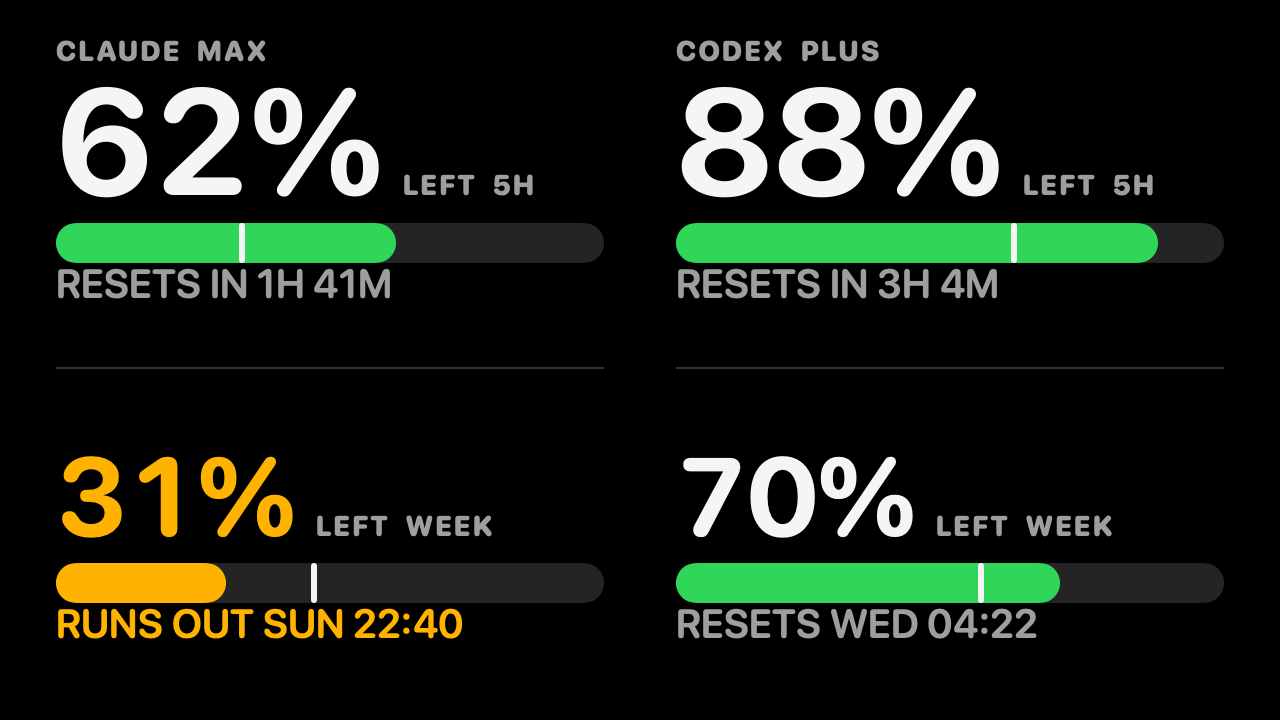
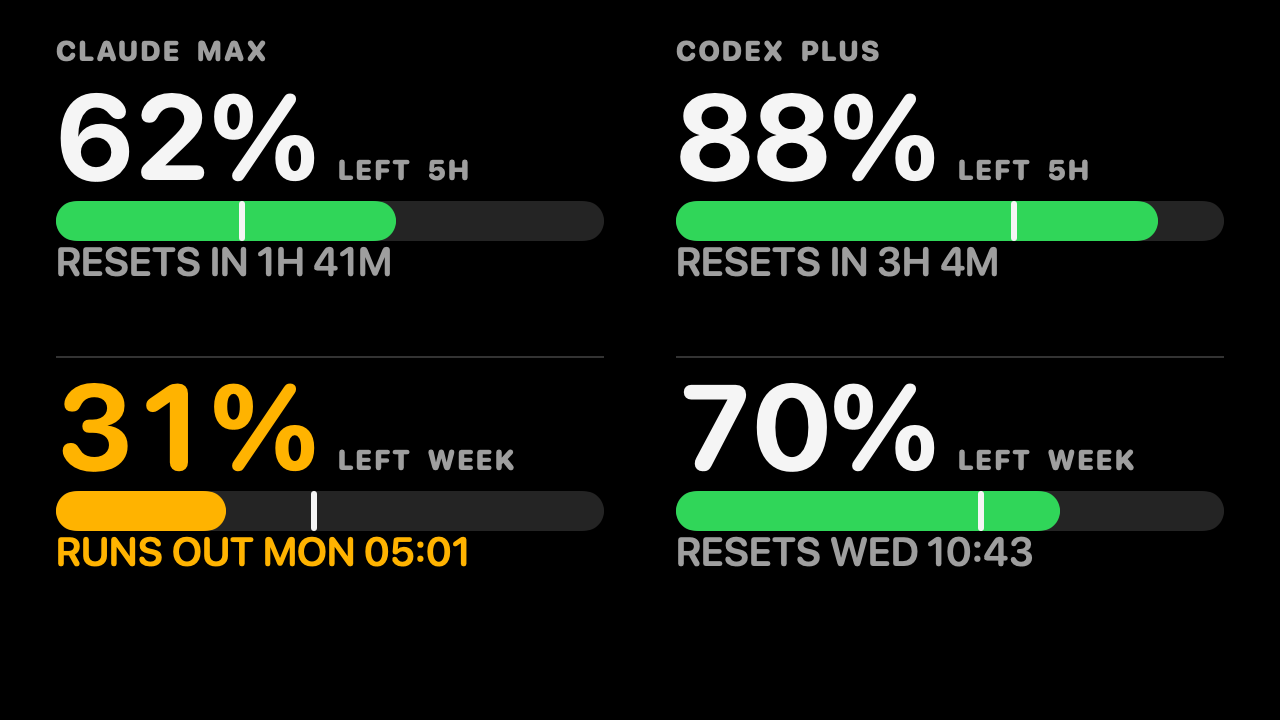
Limits page: the same rows, at the same size, for every agent
The 5-hour window and the week each get a row at one size, lined up across the
columns, instead of each column showing its first window large and its second
small, which put Claude's week and Codex's week at different sizes side by
side. A window a plan lacks keeps its place, marked; a row no agent has is left out.

diff --git a/Sources/deskdash/Views.swift b/Sources/deskdash/Views.swift
@@ -1037,14 +1037,21 @@ struct AlertBanner: View {
 /// Each agent's plan limits side by side: what is left of the 5-hour window large, the week under it. Each bar has a
 /// white tick where an even pace would leave it, so a bar reaching past its tick has room to spare. Amber means it
 /// runs out before it resets at the pace so far, or is nearly gone; red, almost nothing is left.
+/// Each agent's plan limits in a column, in the same rows for every agent: the 5-hour window, then the week, all at one
+/// size, so the same window sits side by side. A window an agent's plan does not have (Codex Pro has only the week)
+/// leaves its place, marked; a row no agent has is left out. Each bar has a white tick where an even pace would leave
+/// it, so a bar reaching past its tick has room to spare. Amber means it runs out before it resets at the pace so far,
+/// or is nearly gone; red, almost nothing is left.
 struct LimitsPage: View {
     let dash: Dashboard
 
     var body: some View {
+        let shown = Array(dash.visibleLimits.prefix(2))
+        let rows = LimitRow.allCases.filter { row in shown.contains { row.window(of: $0) != nil } }
         HStack(alignment: .top, spacing: 72) {
-            let shown = dash.visibleLimits.prefix(2)
             ForEach(shown) {
-                LimitsColumn(limits: $0, now: dash.now, use24h: dash.config.clock.use24h, solo: shown.count == 1)
+                LimitsColumn(limits: $0, rows: rows, now: dash.now, use24h: dash.config.clock.use24h,
+                             size: shown.count == 1 ? 180 : rows.count == 1 ? 150 : 120)
             }
         }
         .padding(.horizontal, 56)
@@ -1054,11 +1061,26 @@ struct LimitsPage: View {
     }
 }
 
+enum LimitRow: CaseIterable {
+    case session, week
+
+    func window(of limits: AgentLimits) -> UsageWindow? {
+        switch self {
+        case .session: limits.session
+        case .week: limits.week
+        }
+    }
+
+    var caption: String { L10n.t(self == .session ? "LEFT  5H" : "LEFT  WEEK") }
+    var missing: String { L10n.t(self == .session ? "NO 5-HOUR LIMIT" : "NO WEEKLY LIMIT") }
+}
+
 struct LimitsColumn: View {
     let limits: AgentLimits
+    let rows: [LimitRow]
     let now: Date
     let use24h: Bool
-    var solo = false  // the only column: the figures grow into the room
+    let size: CGFloat
 
     var body: some View {
         let age = now.timeIntervalSince(limits.updated)
@@ -1070,28 +1092,31 @@ struct LimitsColumn: View {
                     TokenCaption(text: L10n.ago(Fmt.duration(age)))
                 }
             }
-            // The first window large, the second under it. A plan with one window (Codex Pro has only the week)
-            // shows that one large, in the middle of the column.
-            let windows = [(L10n.t("LEFT  5H"), limits.session), (L10n.t("LEFT  WEEK"), limits.week)]
-                .compactMap { c, w in w.map { (c, $0) } }
-            let first: CGFloat = solo ? 200 : 150
-            if windows.count == 1 { Spacer(minLength: 0) }
-            ForEach(Array(windows.enumerated()), id: \.offset) { index, item in
+            ForEach(Array(rows.enumerated()), id: \.offset) { index, row in
                 if index > 0 {
-                    Spacer(minLength: 18)
                     Rectangle().fill(Theme.faint).frame(height: 2)
-                    Spacer(minLength: 6)
                 }
-                LimitFigure(window: item.1, now: now, caption: item.0, size: index == 0 ? first : 110)
-                    .padding(.top, index == 0 ? -first / 9 : 0)
-                    .padding(.bottom, index == 0 ? -4 : 0)
-                LimitBar(window: item.1, now: now)
-                    .frame(height: 22)
-                    .padding(.top, index == 0 ? 0 : 4)
-                LimitNote(window: item.1, now: now, use24h: use24h)
-                    .padding(.top, 14)
+                // Every row the same height in every column, so the rows line up across the page.
+                Group {
+                    if let window = row.window(of: limits) {
+                        VStack(alignment: .leading, spacing: 0) {
+                            LimitFigure(window: window, now: now, caption: row.caption, size: size)
+                                .padding(.top, -size / 9)
+                                .padding(.bottom, -4)
+                            LimitBar(window: window, now: now)
+                                .frame(height: 22)
+                            LimitNote(window: window, now: now, use24h: use24h)
+                                .padding(.top, 14)
+                        }
+                    } else {
+                        TokenCaption(text: row.missing)
+                            .foregroundStyle(Theme.faint)
+                            .padding(.top, size / 3)
+                    }
+                }
+                .frame(maxWidth: .infinity, maxHeight: .infinity, alignment: rows.count == 1 ? .leading : .topLeading)
+                .padding(.vertical, 10)
             }
-            if windows.count == 1 { Spacer(minLength: 40) }
         }
         .lineLimit(1)
         .frame(maxWidth: .infinity, maxHeight: .infinity, alignment: .topLeading)

diff --git a/Sources/deskdash/L10n.swift b/Sources/deskdash/L10n.swift
@@ -62,6 +62,7 @@ enum L10n {
         // pages
         "NEEDS YOU": "需要你", "WORKING": "工作中", "DONE": "完成", "IDLE": "閒置",
         "LEFT  5H": "5 小時內剩餘", "LEFT  WEEK": "本週剩餘",
+        "NO 5-HOUR LIMIT": "沒有 5 小時限制", "NO WEEKLY LIMIT": "沒有每週限制",
         "TODAY": "今天", "7 DAYS": "7 天", "30 DAYS": "30 天", "ALL TIME": "累計", "STREAK": "連續",
         "TEMP": "溫度", "OUTSIDE": "戶外",
         "Sensors are off: turn on Continuous Monitoring in the Dyson app": "感測器已關閉：請在 Dyson App 開啟「持續監測」",

diff --git a/README.md b/README.md
@@ -48,7 +48,7 @@ Changes apply at once and are saved to `config.json`, writing only what differs 
   | gray | **IDLE** | open but quiet; hidden after 12 h |
 
   This page only rotates in while some session is not idle. A thin bar per active session runs along the bottom of every other page, in the same colors.
-- **Limits**: how much is left of your Claude and Codex plans' usage limits, side by side: the 5-hour window large, the week under it (a plan with only one window, like Codex Pro's week, shows that one large). Each bar has a white tick where an even pace would leave it, so a bar that reaches past its tick has room to spare. The figures stay white while there is room. They turn amber when the window would run out before it resets at the pace so far ("RUNS OUT THU 18:00") or has under 20% left, and red under 10%. Otherwise the line under the bar says when it resets. A report older than 30 minutes says how old. This page appears once either agent has reported its limits (see [How plan limits work](#how-plan-limits-work)).
+- **Limits**: how much is left of your Claude and Codex plans' usage limits, a column per agent and a row per window, the 5-hour one and the week, all at one size so the same window sits side by side. A window a plan does not have (Codex Pro has only the week) keeps its place, marked; a row no agent has is left out. Each bar has a white tick where an even pace would leave it, so a bar that reaches past its tick has room to spare. The figures stay white while there is room. They turn amber when the window would run out before it resets at the pace so far ("RUNS OUT THU 18:00") or has under 20% left, and red under 10%. Otherwise the line under the bar says when it resets. A report older than 30 minutes says how old. This page appears once either agent has reported its limits (see [How plan limits work](#how-plan-limits-work)).
 - **Tokens**: the tokens your coding agents used on this Mac: Claude Code, Codex, Gemini CLI and Muse Code. Today's count is large, with each agent's share under it, and the last 7 and 30 days, all time, and your streak of days with any use sit beside it. Underneath are the last 26 weeks as a GitHub-style heatmap: a column per week, a row per weekday from your calendar's first day of the week, and GitHub's shades of green, from none to the busiest quarter of your days. Today is outlined. While this page shows, the count catches up every 10 s. It appears once there is any use in those weeks (see [How token counting works](#how-token-counting-works)).
 
 **Alerts.** When a session starts waiting on you, the display jumps to the agents page for 20 s, and an amber frame blinks around every page until nothing is waiting. When a session finishes, a green frame blinks for 6 s and the agents page shows for 10 s. Both jumps can be turned off in Settings → Agents. When a plan's 5-hour or weekly window drops under 20% left, the limits page shows for 20 s, once per window until it resets.
